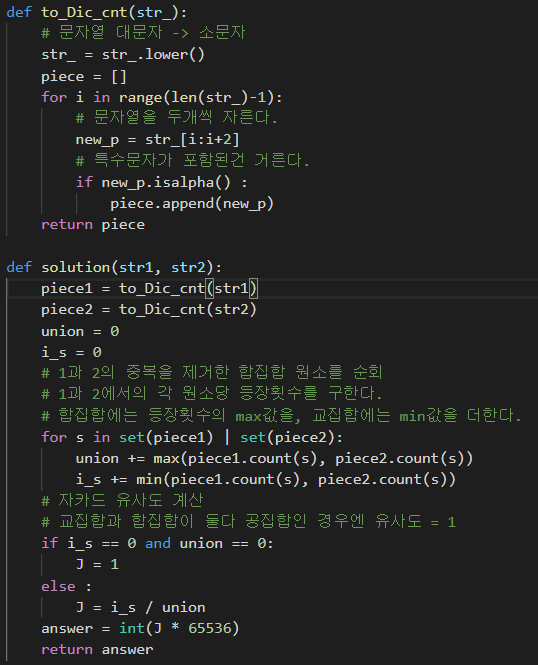
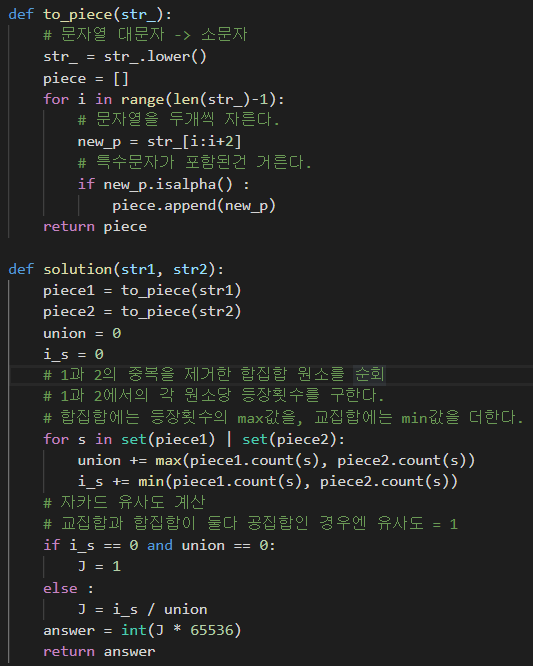
.

diff --git a/pyCode/16-2 뉴스클러스터링.py b/pyCode/16-2 뉴스클러스터링.py
@@ -1,4 +1,4 @@
-def to_Dic_cnt(str_):
+def to_piece(str_):
     # 문자열 대문자 -> 소문자
     str_ = str_.lower()
     piece = []
@@ -11,8 +11,8 @@ def to_Dic_cnt(str_):
     return piece
 
 def solution(str1, str2):
-    piece1 = to_Dic_cnt(str1)
-    piece2 = to_Dic_cnt(str2)
+    piece1 = to_piece(str1)
+    piece2 = to_piece(str2)
     union = 0
     i_s = 0
     # 1과 2의 중복을 제거한 합집합 원소를 순회
